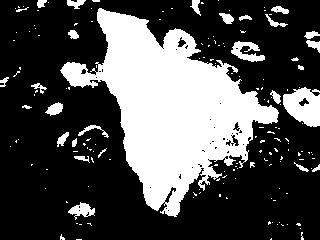
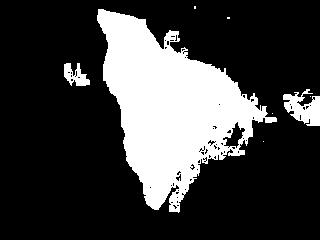
add pixels

diff --git a/image2graph.py b/image2graph.py
@@ -12,8 +12,6 @@ def laplace(x):
 # TODO need to analyze for best params
 bins = 10
 step = math.ceil(256 / bins)
-# lambda_const = 50
-# sigma_const = 50
 epsilon = 1e-4
 K = 20000000
 
@@ -28,44 +26,67 @@ def generate_probs(img, interest):
     return hist
 
 
-def image2graph(img, obj, bkg, lambda_const, sigma_const):
-    number_of_nodes = len(img.ravel())
-    number_of_rows = len(img)
-    number_of_cols = len(img[0])
-    obj_probs = generate_probs(img, obj)
-    bkg_probs = generate_probs(img, bkg)
-    obj_set = set(obj)
-    bkg_set = set(bkg)
-    obj_terminal, bkg_terminal = number_of_nodes, number_of_nodes+1
-    graph = Graph(n=number_of_nodes+2, source=obj_terminal, target=bkg_terminal)
-    for i in range(number_of_rows):
-        for j in range(number_of_cols):
-            if (i, j) in obj_set:
-                graph.add_edge(obj_terminal, number_of_cols * i + j, K)
-                graph.add_edge(number_of_cols * i + j, bkg_terminal, 1e-15)
-            elif (i, j) in bkg_set:
-                graph.add_edge(obj_terminal, number_of_cols * i + j, 0)
-                graph.add_edge(number_of_cols*i + j, bkg_terminal, K)
-            else:
-                R_obj = -np.log(min(obj_probs[img[i][j] // step] + epsilon, 1))
-                R_bkg = -np.log(min(bkg_probs[img[i][j] // step] + epsilon, 1))
-                graph.add_edge(obj_terminal, number_of_cols*i + j, lambda_const*R_bkg)
-                graph.add_edge(number_of_cols*i + j, bkg_terminal, lambda_const*R_obj)
-            intensity = img[i][j]
-            if i > 0:
-                other_intensity = img[i-1][j]
-                weight = np.exp(-((int(intensity)-int(other_intensity))**2) / (2 * (sigma_const**2)))
-                graph.add_edge(number_of_cols*i + j, number_of_cols*(i-1) + j, weight)
-            if i < number_of_rows-1:
-                other_intensity = img[i+1][j]
-                weight = np.exp(-((int(intensity) - int(other_intensity)) ** 2) / (2 * (sigma_const ** 2)))
-                graph.add_edge(number_of_cols * i + j, number_of_cols * (i+1) + j, weight)
-            if j > 0:
-                other_intensity = img[i][j-1]
-                weight = np.exp(-((int(intensity) - int(other_intensity)) ** 2) / (2 * (sigma_const ** 2)))
-                graph.add_edge(number_of_cols * i + j, number_of_cols*i + j - 1, weight)
-            if j < number_of_cols-1:
-                other_intensity = img[i][j+1]
-                weight = np.exp(-((int(intensity) - int(other_intensity)) ** 2) / (2 * (sigma_const ** 2)))
-                graph.add_edge(number_of_cols * i + j, number_of_cols*i + j + 1, weight)
-    return graph
+class image2graph:
+    def __init__(self, img, obj, bkg, lambda_const=1, sigma_const=1):
+        self.lambda_const = lambda_const
+        self.sigma_const = sigma_const
+        self.img = img
+        self.number_of_nodes = len(img.ravel())
+        self.number_of_rows = len(img)
+        self.number_of_cols = len(img[0])
+        self.obj_probs = generate_probs(img, obj)
+        self.bkg_probs = generate_probs(img, bkg)
+        self.obj_set = set(obj)
+        self.bkg_set = set(bkg)
+        self.obj_terminal, self.bkg_terminal = self.number_of_nodes, self.number_of_nodes+1
+        graph = Graph(n=self.number_of_nodes+2, source=self.obj_terminal, target=self.bkg_terminal)
+        for i in range(self.number_of_rows):
+            for j in range(self.number_of_cols):
+                if (i, j) in self.obj_set:
+                    graph.add_edge(self.obj_terminal, self.number_of_cols * i + j, K)
+                    graph.add_edge(self.number_of_cols * i + j, self.bkg_terminal, 1e-15)
+                elif (i, j) in self.bkg_set:
+                    graph.add_edge(self.obj_terminal, self.number_of_cols * i + j, 0)
+                    graph.add_edge(self.number_of_cols*i + j, self.bkg_terminal, K)
+                else:
+                    R_obj = -np.log(min(self.obj_probs[img[i][j] // step] + epsilon, 1))
+                    R_bkg = -np.log(min(self.bkg_probs[img[i][j] // step] + epsilon, 1))
+                    graph.add_edge(self.obj_terminal, self.number_of_cols*i + j, lambda_const*R_bkg)
+                    graph.add_edge(self.number_of_cols*i + j, self.bkg_terminal, lambda_const*R_obj)
+                intensity = img[i][j]
+                if i > 0:
+                    other_intensity = img[i-1][j]
+                    weight = np.exp(-((int(intensity)-int(other_intensity))**2) / (2 * (sigma_const**2)))
+                    graph.add_edge(self.number_of_cols*i + j, self.number_of_cols*(i-1) + j, weight)
+                if i < self.number_of_rows-1:
+                    other_intensity = img[i+1][j]
+                    weight = np.exp(-((int(intensity) - int(other_intensity)) ** 2) / (2 * (sigma_const ** 2)))
+                    graph.add_edge(self.number_of_cols * i + j, self.number_of_cols * (i+1) + j, weight)
+                if j > 0:
+                    other_intensity = img[i][j-1]
+                    weight = np.exp(-((int(intensity) - int(other_intensity)) ** 2) / (2 * (sigma_const ** 2)))
+                    graph.add_edge(self.number_of_cols * i + j, self.number_of_cols*i + j - 1, weight)
+                if j < self.number_of_cols-1:
+                    other_intensity = img[i][j+1]
+                    weight = np.exp(-((int(intensity) - int(other_intensity)) ** 2) / (2 * (sigma_const ** 2)))
+                    graph.add_edge(self.number_of_cols * i + j, self.number_of_cols*i + j + 1, weight)
+        self.graph = graph
+
+    def min_cut(self):
+        self.graph.dinic()
+        return self.graph.min_cut()
+
+    def change_to_obj(self, vertex):
+        vertex_idx = vertex[0]*self.number_of_cols + vertex[1]
+        R_obj = -np.log(min(self.obj_probs[self.img[vertex[0]][vertex[1]] // step] + epsilon, 1))
+        R_bkg = -np.log(min(self.bkg_probs[self.img[vertex[0]][vertex[1]] // step] + epsilon, 1))
+        self.graph.add_to_edge(self.obj_terminal, vertex_idx, K+self.lambda_const*R_obj)
+        self.graph.add_to_edge(vertex_idx, self.bkg_terminal, self.lambda_const*R_bkg)
+
+    def change_to_bkg(self, vertex):
+        vertex_idx = vertex[0] * self.number_of_cols + vertex[1]
+        R_obj = -np.log(min(self.obj_probs[self.img[vertex[0]][vertex[1]] // step] + epsilon, 1))
+        R_bkg = -np.log(min(self.bkg_probs[self.img[vertex[0]][vertex[1]] // step] + epsilon, 1))
+        self.graph.add_to_edge(self.obj_terminal, vertex_idx, self.lambda_const * R_obj)
+        self.graph.add_to_edge(vertex_idx, self.bkg_terminal, K + self.lambda_const * R_bkg)
+

diff --git a/segmentation-tests/test.py b/segmentation-tests/test.py
@@ -6,18 +6,17 @@ import matplotlib.image as mpimg
 from Dinic import Graph
 from PIL import Image
 from image2graph import image2graph
-from scribbles import scribbles
+from scribbles import generate_rect, scribbles
 import os
 
 
-def make_pixels(index, image_url, lambda_const, sigma_const):
+def make_pixels(index, image_url, **kvargs):
     img = mpimg.imread('../images-320/' + image_url)
     img_shape = img.shape
     obj_scribble, bkg_scribble = scribbles[index]()
-    underlying_graph = image2graph(img, obj_scribble, bkg_scribble, lambda_const, sigma_const)
+    image_graph = image2graph(img, obj_scribble, bkg_scribble, **kvargs)
     start = time.time()
-    flow = underlying_graph.dinic()
-    one_item = underlying_graph.min_cut()
+    one_item = image_graph.min_cut()
     end = time.time()
     print('percent of object: ', sum(one_item)/(img_shape[1]*img_shape[0]) * 100)
     print("Time in seconds", "%.3f" % (end - start))
@@ -61,25 +60,19 @@ def analyze(true_segments, predicted_segments):
 
 
 def analyze_all():
-    array_of_lambdas = [1, 30, 100]
-    array_of_sigmas = [1, 40, 100]
     directory = '../images-320'
     images = os.listdir(directory)
     images.sort()
-    results_of_correct_pixles = []
-    results_of_jacard_metrics = []
     for idx, image_url in enumerate(images):
-        for lambda_const in array_of_lambdas:
-            for sigma_const in array_of_sigmas:
-                make_pixels(idx, image_url, lambda_const, sigma_const)
-                true_segments = mpimg.imread('../image-segments-320/' + image_url.split('-')[0] + '-320.jpg')
-                predicted_segments = mpimg.imread('../images-segments-prediction-320/' + image_url)
-                true_segments = true_segments[:, :, :1].flatten().reshape(predicted_segments.shape)
-                correct_pixels, Jaccard = analyze(true_segments, predicted_segments)
-                # TODO write in file too
-                print('Правильно угаданных пикселей: ', correct_pixels)
-                print('Мера Жаккара: ', Jaccard)
-                print('--------------------------------------------------------')
+        print(image_url)
+        make_pixels(idx, image_url)
+        true_segments = mpimg.imread('../image-segments-320/' + image_url.split('-')[0] + '-320.jpg')
+        predicted_segments = mpimg.imread('../images-segments-prediction-320/' + image_url)
+        true_segments = true_segments[:, :, :1].flatten().reshape(predicted_segments.shape)
+        correct_pixels, Jaccard = analyze(true_segments, predicted_segments)
+        print('Правильно угаданных пикселей: ', correct_pixels)
+        print('Мера Жаккара: ', Jaccard)
+        print('--------------------------------------------------------')
 
 
 def analyze_lambda_and_sigma(lambdas, sigmas):
@@ -110,7 +103,7 @@ def analyze_lambda_and_sigma(lambdas, sigmas):
             for i in results_of_correct_pixles:
                 sum_pixels += i
             file.write('Среднее значение правильно угаданных пикселей: '+str(sum_pixels/len(results_of_correct_pixles))+' \n')
-            
+
             file.write('Минимальное значение меры Жаккара: '+str(min(results_of_jacard_metrics))+' \n')
             file.write('Максимальное значение меры Жаккара: '+str(max(results_of_jacard_metrics))+' \n')
             sum_jacard = 0
@@ -120,4 +113,47 @@ def analyze_lambda_and_sigma(lambdas, sigmas):
             file.close()
 
 
-analyze_lambda_and_sigma([1, 30, 100], [1, 40, 100])
+def interactive_segmentation(image_url):
+    img = mpimg.imread('../interactive-images/' + image_url)
+    img_shape = img.shape
+    print('Введите прямоугольник, относящийся к объекту')
+    obj_x0, obj_y0, obj_h, obj_w = list(map(int, input().split()))
+    print('Введите прямоугольник, относящийся к фону')
+    bkg_x0, bkg_y0, bkg_h, bkg_w = list(map(int, input().split()))
+    obj_scribble, bkg_scribble = generate_rect((obj_x0, obj_y0), obj_h, obj_w), \
+                                 generate_rect((bkg_x0, bkg_y0), bkg_h, bkg_w),
+    image_graph = image2graph(img, obj_scribble, bkg_scribble)
+    to_obj = image_graph.min_cut()
+    bin_img = Image.new(mode='1', size=(img_shape[1], img_shape[0]), color=0)
+    for i, val in enumerate(to_obj):
+        if val:
+            bin_img.putpixel((i % img_shape[1], i // img_shape[1]), 1)
+    bin_img.save('../interactive-images-segments-prediction-320/' + image_url, 'JPEG')
+    cont = True
+    while cont:
+        print("Введите дополнительный пиксели в формате: 'obj/bkg/stop x0 y0 h w'")
+        inp = input()
+        command = inp.split()[0]
+        if command == 'stop':
+            cont = False
+            break
+        else:
+            x0, y0, h, w = list(map(int, inp.split()[1:]))
+            pixels = generate_rect((x0, y0), h, w)
+            for pixel in pixels:
+                if command == 'obj':
+                    image_graph.change_to_obj(pixel)
+                elif command == 'bkg':
+                    image_graph.change_to_bkg(pixel)
+        one_item = image_graph.min_cut()
+        bin_img = Image.new(mode='1', size=(img_shape[1], img_shape[0]), color=0)
+        for i, val in enumerate(one_item):
+            if val:
+                bin_img.putpixel((i % img_shape[1], i // img_shape[1]), 1)
+        bin_img.save('../interactive-images-segments-prediction-320/' + image_url, 'JPEG')
+
+
+# interactive_segmentation('banana1-gr-320.jpg')
+# analyze_lambda_and_sigma([1, 30, 100], [1, 40, 100])
+# analyze_all()
+# solo_test(11)

diff --git a/Dinic.py b/Dinic.py
@@ -12,6 +12,9 @@ class Edge:
         self.cap = capacity
         self.flow = flow
 
+    def add_capacity(self, plus_cap):
+        self.cap += plus_cap
+
 
 class Graph:
     def __init__(self, n, source, target):
@@ -33,6 +36,13 @@ class Graph:
         self.e.append(e1)
         self.g[b].append(len(self.e))
         self.e.append(e2)
+
+    def add_to_edge(self, v, to, cap):
+        for i in range(len(self.g[v])):
+            id = self.g[v][i]
+            if to == self.e[id].b:
+                self.e[id].add_capacity(cap)
+        return 0
 
     def bfs(self):
         qh = 1
